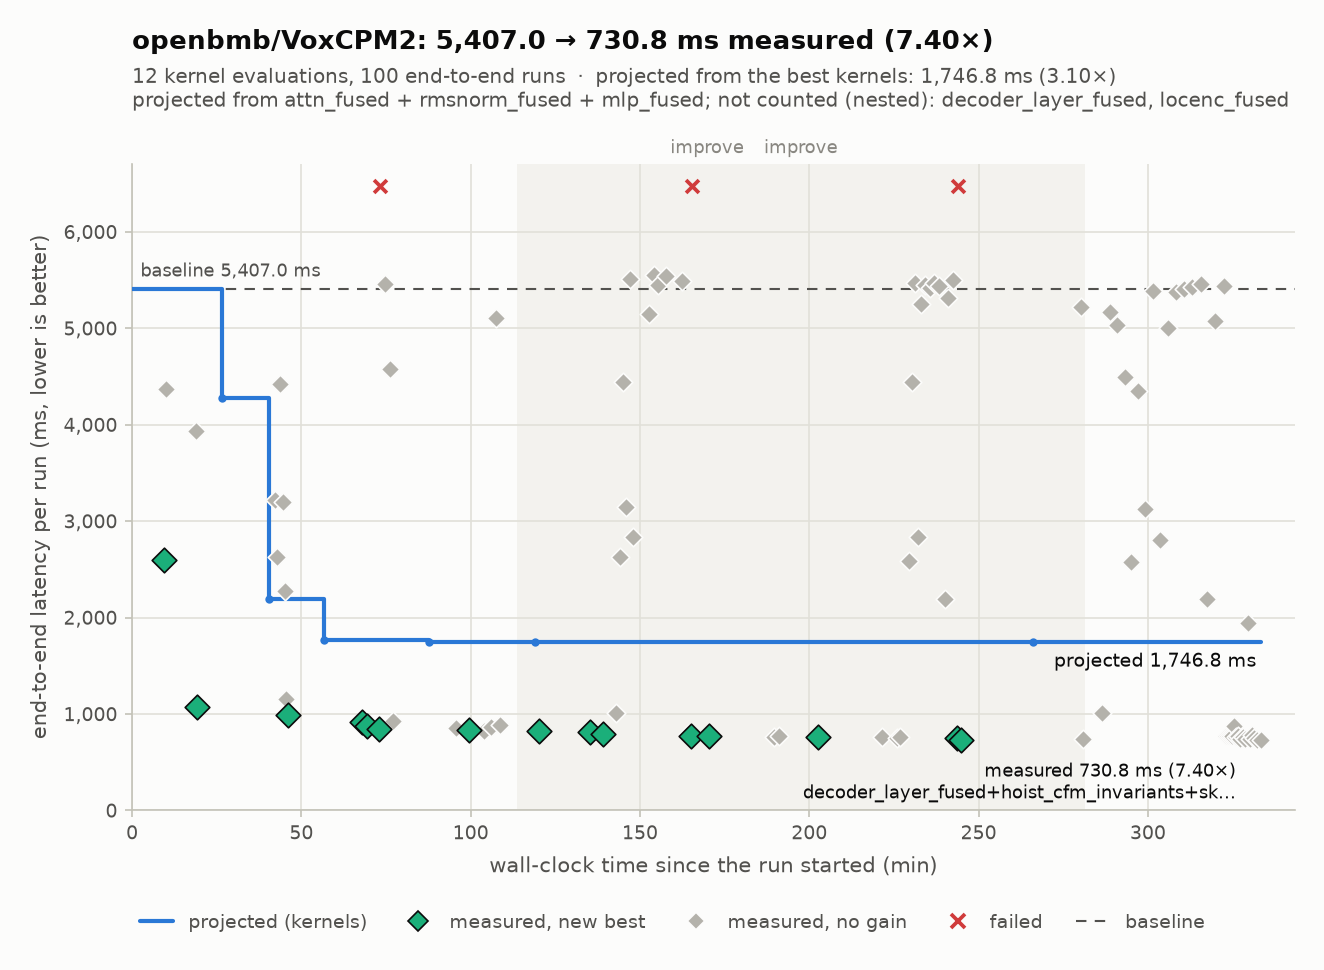
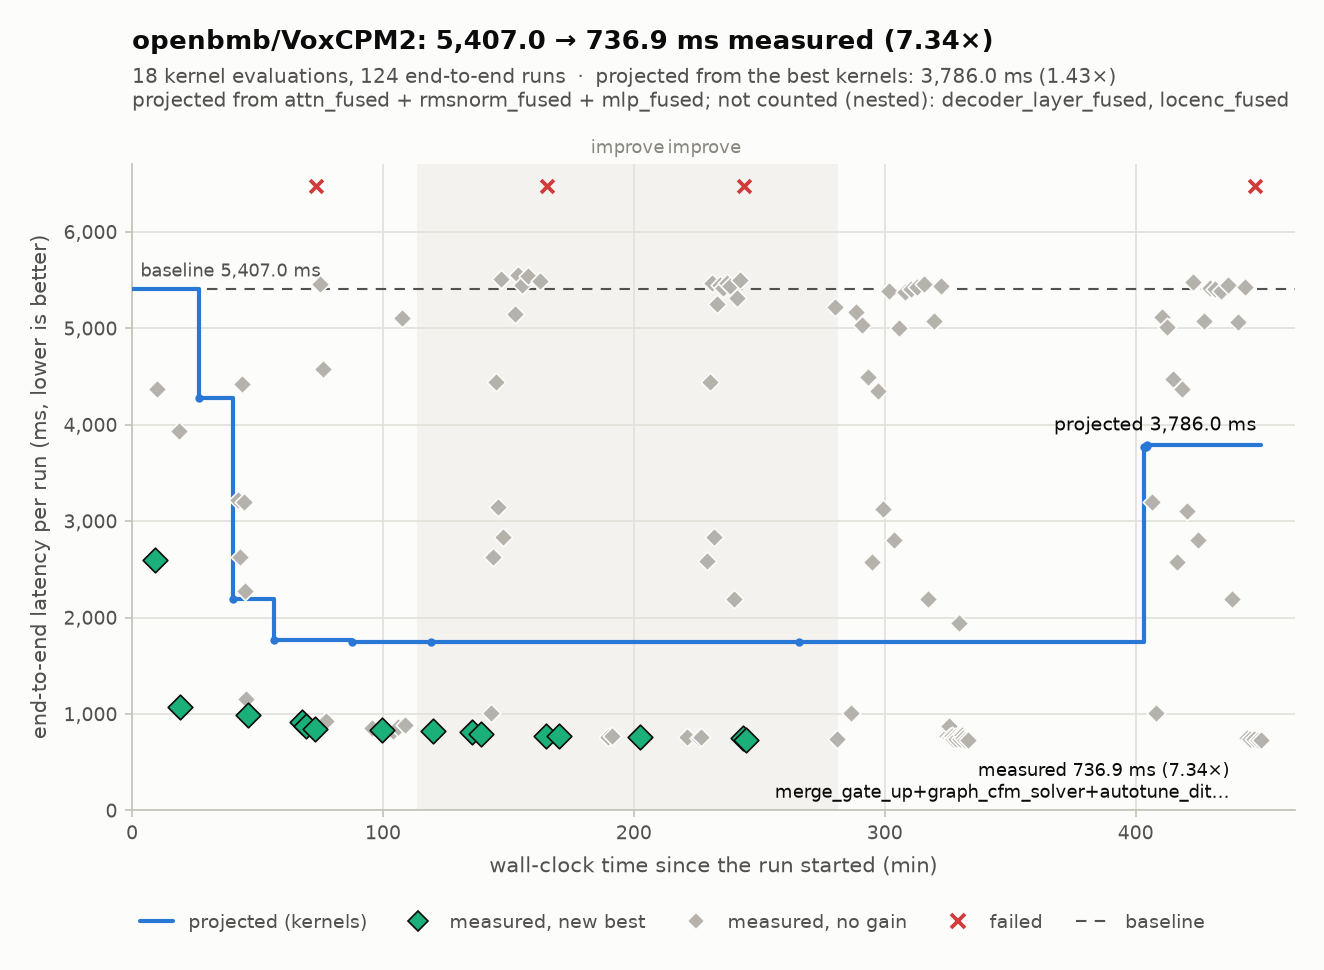
docs: VoxCPM2 final numbers from both re-integrations (7.34-7.40x) and real use (7.35-7.49x)

diff --git a/docs/VOXCPM2.md b/docs/VOXCPM2.md
@@ -1,4 +1,4 @@
-# VoxCPM2 on an RTX 5070 Ti: 7.4× faster with kernel-agent
+# VoxCPM2 on an RTX 5070 Ti: 7.3–7.4× faster with kernel-agent
 
 The motivating case for the roadmap ([ROADMAP.md](ROADMAP.md), tracking issue
 [#24](https://github.com/kadirnar/kernel-agent/issues/24)): make
@@ -15,7 +15,7 @@ audio, 10 flow-matching steps, CFG 2.0, seed 0):
 | eager PyTorch (`optimize=False`) | 5,407 ms | 1.00× | 0.70× |
 | VoxCPM `optimize()` (`torch.compile`, reduce-overhead) | 3,798 ms | 1.42× | 1.00× |
 | kernel-agent, round 1 (integrated) | 891 ms | 6.07× | 4.26× |
-| **kernel-agent, final (paired A/B integration)** | **731 ms** | **7.40×** | **5.20×** |
+| **kernel-agent, final (paired A/B integration)** | **731–737 ms** | **7.34–7.40×** | **5.15–5.20×** |
 
 Real use through VoxCPM2's own `generate()` at natural length
 (`examples/voxcpm2_optimized.py`, three English sentences, the exported
@@ -24,7 +24,7 @@ Real use through VoxCPM2's own `generate()` at natural length
 | | total time | real-time factor | Whisper-large-v3 WER |
 |---|---|---|---|
 | eager | 8.44 s | 0.57 | 0.08 / 0.00 / 0.00 |
-| optimised | 1.13 s | 0.077 | 0.08 / 0.00 / 0.00 |
+| optimised | 1.13–1.15 s | 0.077–0.080 | 0.08 / 0.00 / 0.00 |
 
 (The 0.08 is Whisper spelling "optimisation" as "optimization".) Audio lengths
 match (4.6–5.0 s per sentence).
@@ -34,8 +34,15 @@ Cost: 19 agent sessions, **$31.67** of Claude usage, 4 h 41 min wall clock
 
 ## What made it fast
 
-The final integration (paired in-process A/B, each step ≥ 80 % of 8 rounds
-won and a bootstrap 95 % CI of the gain > 1 %) accepted four items:
+The range comes from two independent final integrations with the current
+code: the first accepted four items (below, 730.8 ms); the second, after the
+stale kernel records had been re-evaluated (#58), seeded from the best measured
+combination of 14 items plus the hoisted CFM solver (736.9 ms). Both use the
+same fused decoder-layer kernel for most of the gain; they differ by < 1 %.
+Real use was measured with each exported package (7.49× and 7.35×).
+
+The first final integration (paired in-process A/B, each step ≥ 80 % of 8
+rounds won and a bootstrap 95 % CI of the gain > 1 %) accepted four items:
 
 | item | kind | what it does | gain when added |
 |---|---|---|---|
